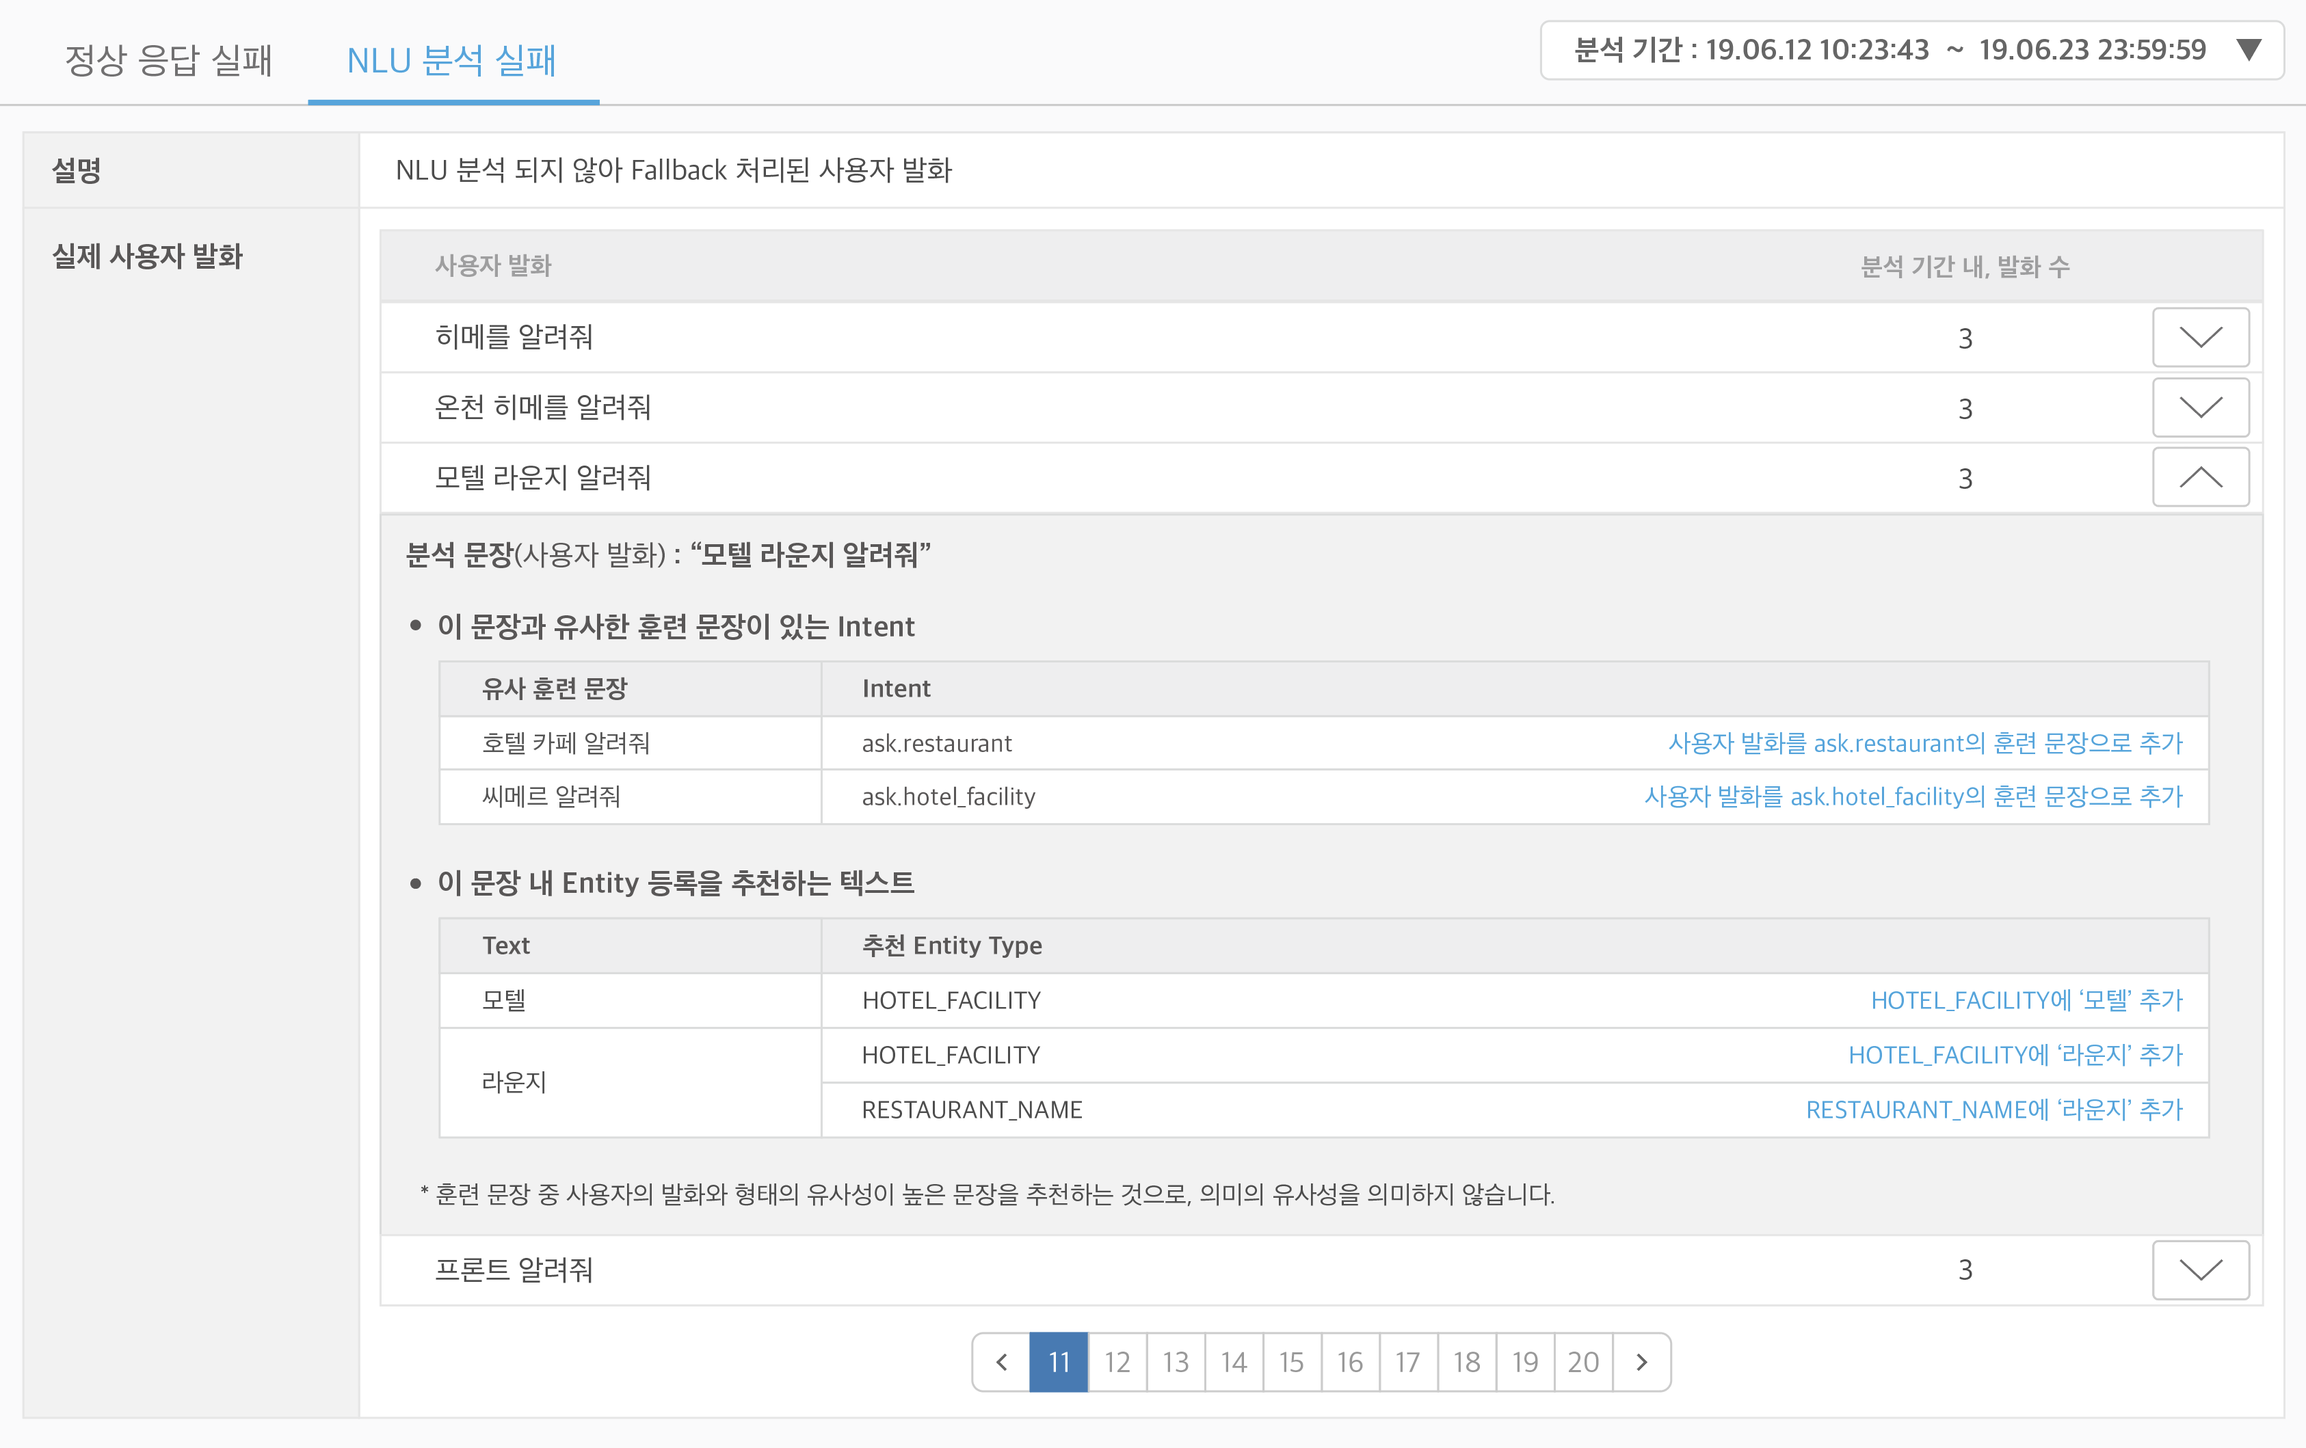
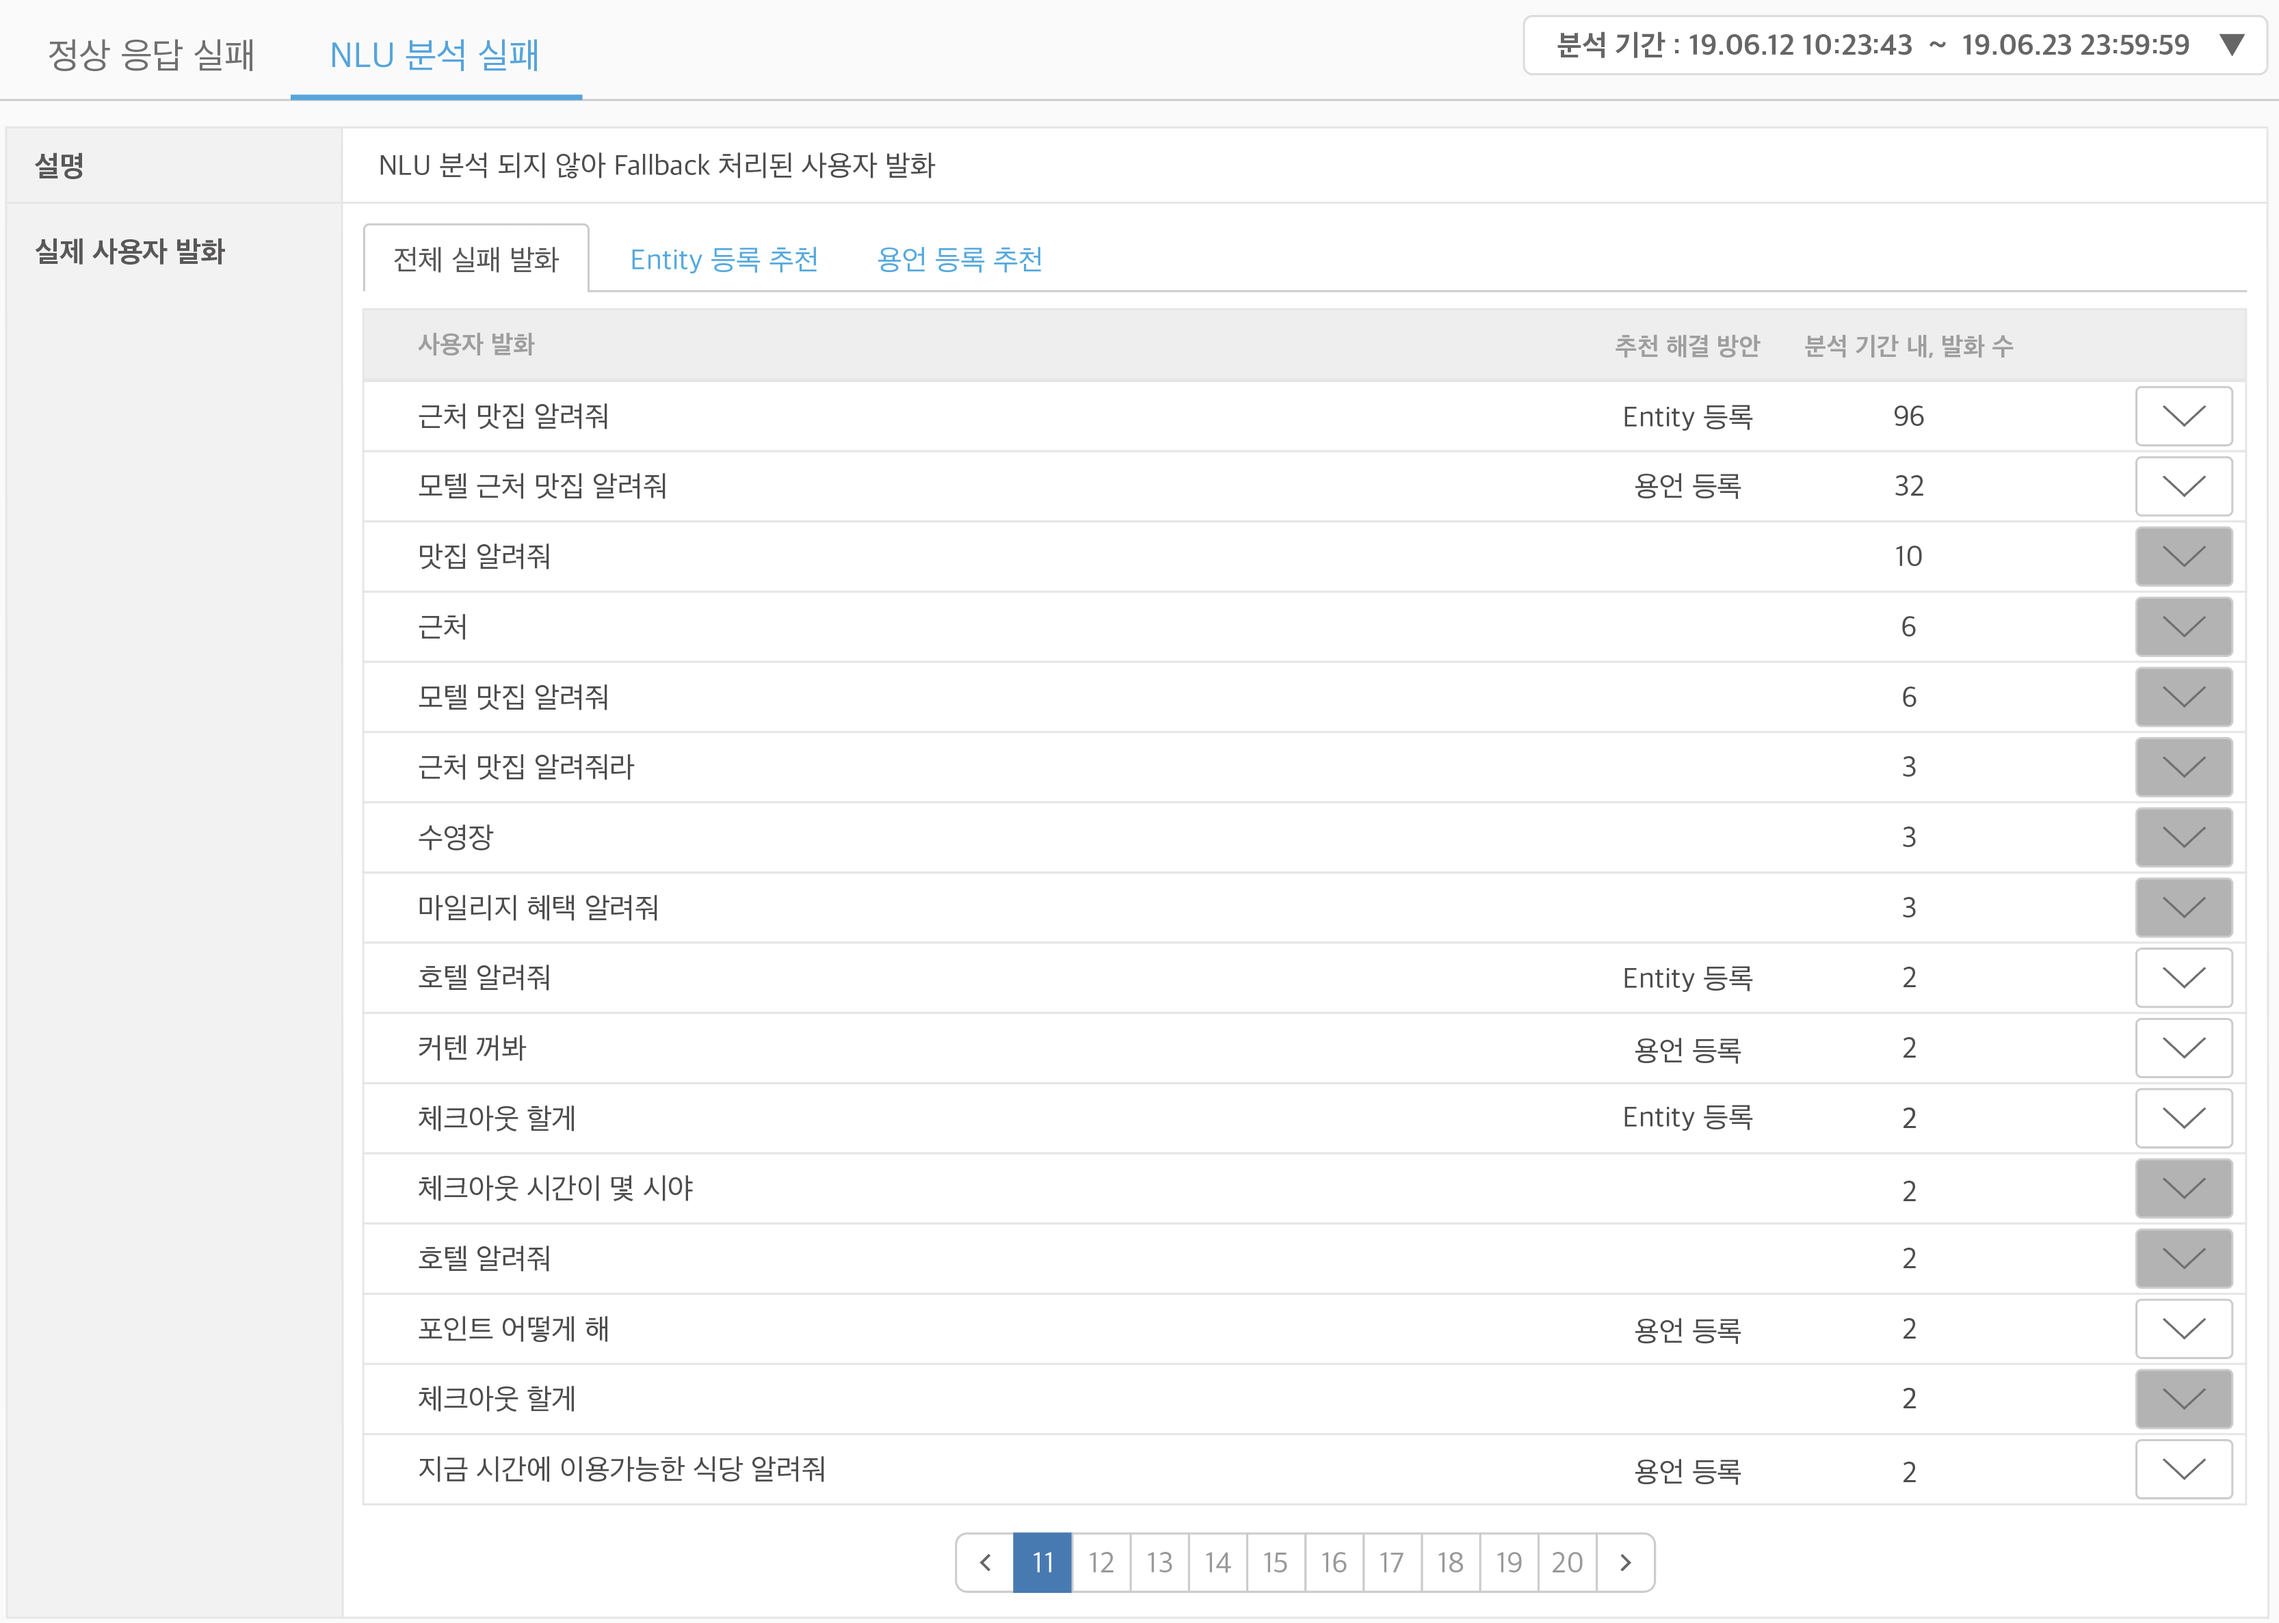
- 로그마이닝 용언 추천 설명
- 로그마이닝 용언 추천 설명 추가
  - 릴리즈 노트 업데이트

diff --git a/latest/README.md b/latest/README.md
@@ -1,103 +1,174 @@
-# Release note
+Release Notes
+==================
+## Version 1.7.0
+
+업데이트일 : 2019년 9월 26일
+
+
+####1. 새로운 기능
+* 실패 발화 분석 도구에 용언 분석 기능 추가 : [자세히 알아보기](/create-plays-with-play-builder/log-mining.md)
+
+
+####2. 향상/변경된 기능
+* Action명 수정
+* Action 목록에서 Backend Proxy/Directive 사용 여부 표시
+
+
+
+<br>
+<br>
+
+## Version 1.6.0
+
+업데이트일 : 2019년 8월 20일
+
+
+####1. 새로운 기능
+* Play 빌드 Export/Import 기능 추가
+
+
+
+####2. 향상/변경된 기능
+* 저장 속도 향상
+
+
+
+####3. 버그 수정
+* 좌측 LNB 화살표 방향 오류 수정
+* Built-in Action breadcrumbs 링크 오류 수정
+  
+<br>
+<br>
+
+## Version 1.5.0
+
+업데이트일 : 2019년 8월 8일
+
+
+####1. 새로운 기능
+* Play 내에서 공통으로 사용할 수 있는 Global Utterance Parameter 추가
+
+
+####2. 향상/변경된 기능
+* Welcome Action에서 Common Action을 output으로 선택할 수 있도록 변경
+* Parameter에서 Array 형식 처리할 수 있도록 변경
+* User Utterance Model Import시 Validation
+* Entity 허용 문자에 . (dot) 추가
+* Built-in Entity type 상세화면에서 동의어 노출
+* NLU function 타입을 'DATE'에서 'DATETIME'으로 변경
+
+
+
+####3. 버그 수정
+* 발화옵션 자동완성 '한글 숫자 읽기' 자동입력 오류 수정
+* Action 생성 페이지에서, Intent 없을 경우 멈추는 현상 수정 
+  
+<br>
+<br>
 
 ## Version 1.4.0
 
 업데이트일 : 2019년 7월 11일
 
-### 1. 새로운 기능
 
-* 실패 발화 분석 도구 추가 : [자세히 알아보기](https://github.com/nugudevelopers/document/tree/38a11c4f0cb05a1e16b93fc6ffb82b035852ac8c/create-plays-with-play-builder/log-mining.md)
+####1. 새로운 기능
+* 실패 발화 분석 도구 추가 : [자세히 알아보기](/create-plays-with-play-builder/log-mining.md)
 
-### 2. 향상/변경된 기능
 
+####2. 향상/변경된 기능
 * Translator, Normalizer의 Source/Target 최대 글자수를 50에서 200으로 변경
 
-### 3. 버그 수정
 
+
+####3. 버그 수정
 * Prompt 입력창에서 백스페이스 글자 삭제 버그 수정 
 * Translator 이름 중복 버그 수정 및 정렬 수정
 * 학습 문장 분석 도구 내 Intent 미노출 현상 수정
 * Play 구조에서 Common Action 하위 브랜치 노출
+  
+<br>
+<br>
 
 ## Version 1.3.0
 
 업데이트일 : 2019년 4월 23일
 
-### 1. 새로운 기능
 
-* Utterance Model 학습 문장 분석 도구 추가 : [자세히 알아보기](../create-plays-with-play-builder/define-user-utterance-model/corpus-inspection.md)
-* 합성음 목소리 '벨' 추가 : [자세히 알아보기](../create-plays-with-play-builder/customize-a-play.md#setting)
+####1. 새로운 기능
+* Utterance Model 학습 문장 분석 도구 추가 : [자세히 알아보기](/create-plays-with-play-builder/corpus-inspection.md)
+* 합성음 목소리 '벨' 추가 : [자세히 알아보기](/create-plays-with-play-builder/customize-a-play.md#setting)
 
-### 2. 향상/변경된 기능
 
+####2. 향상/변경된 기능
 * 자동 처리 조사 추가 '예요/이에요'
 * Common Action 내에서 Utterance Parameter 정의할 수 있도록 수정
 * 학습문장 Export 파일 이름 변경
 * Action의 Prompt 하나를 Silent Prompt로 지정하면, 모두 Silent Prompt로 변경되도록 수정
 * Root Common Action끼리 Parameter 공유되지 않도록 변경
 
-### 3. 버그 수정
 
+
+####3. 버그 수정
 * Intent 리스트 최종 수정 시간이 정확히 표시 안되는 현상 수정 
 * 자동완성 UI 수정
 * 일부 단어 Entity 검색 안되는 버그 수정
 * 여러 개의 Response Filter를 적용할 때 멈추는 현상 수정
-
+  
+<br>
+<br>
 ## Version 1.2.0
 
 업데이트일 : 2019년 3월 12일
 
-### 1. 새로운 기능
 
-* Action 중복 생성을 줄이기 위한 Common Action 추가 : [자세히 알아보기](../create-plays-with-play-builder/define-an-action/use-common-actions.md)
-* Play 내에서 공통으로 사용할 수 있는 Global Backend Parameter 추가 : [자세히 알아보기](../create-plays-with-play-builder/customize-a-play.md#setting-backend-proxy)
-* Response에서 효과음 추가 : [자세히 알아보기](../create-plays-with-play-builder/define-an-action/use-responses/use-prompts.md#skml-tag)
+####1. 새로운 기능
+* Action 중복 생성을 줄이기 위한 Common Action 추가 : [자세히 알아보기](/create-plays-with-play-builder/use-common-actions.md)
+* Play 내에서 공통으로 사용할 수 있는 Global Backend Parameter 추가 : [자세히 알아보기](/create-plays-with-play-builder/customize-a-play.md#setting-backend-proxy)
+* Response에서 효과음 추가 : [자세히 알아보기](/create-plays-with-play-builder/use-prompts.md#skml-tag)
 
-### 2. 향상/변경된 기능
 
-* Utterance Parameter에 Entity mapping 방식 변경 : [자세히 알아보기](../create-plays-with-play-builder/define-an-action/use-parameters/multi-entity-mapping.md)
+####2. 향상/변경된 기능
+* Utterance Parameter에 Entity mapping 방식 변경 : [자세히 알아보기](/create-plays-with-play-builder/multi-entity-mapping.md)
 * Entity value 및 동의어 입력 시 허용 특수기호 추가
-
-  ' \(Apostrophe\), & \(Ampersand\), - \(Hyphen\) 
-
+  ' (Apostrophe), & (Ampersand), - (Hyphen) 
 * 저장 버튼 동작 수정
 * Entity value 및 동의어 입력 시 띄어쓰기 허용
 * 여러 Prompt 등록 후 하나를 Silent prompt로 지정하면 모두 Silent prompt로 변경
 * 히스토리에 Snapshot ID 노출
 * Exception prompt 3개 이상 입력 허용
 
-### 3. 버그 수정
 
-* Entity Type의 BID\_QT에 숫자 보강
+####3. 버그 수정
+* Entity Type의 BID_QT에 숫자 보강
 * Utterance parameter에 mapping할 Entity 사라지는 현상 수정
+ 
 
+
+<br>
+<br>
 ## Version 1.1.0
 
 업데이트일 : 2018년 12월 13일
 
-### 1. 새로운 기능
 
-* 멀티턴 대화 지원 \(Response + Branch Action\) : [자세히 알아보기](../create-plays-with-play-builder/define-an-action/response-with-branch-actions.md) 
-* AudioPlayer Interface용 Display Interface 추가 : [자세히 알아보기](../create-plays-with-play-builder/use-backend-proxy/capability-interfaces/display-interface.md)
-* 다른 Intent 에서 Entity type 더 가져오기 기능 추가 : [자세히 알아보기](../create-plays-with-play-builder/define-an-action/response-with-branch-actions.md#multi-turn-branch)
-* Silent Prompt : [자세히 알아보기](../create-plays-with-play-builder/define-an-action/use-responses/use-prompts.md#silent-prompt)
+####1. 새로운 기능
+* 멀티턴 대화 지원 (Response + Branch Action) : [자세히 알아보기](/create-plays-with-play-builder/response-with-branch-actions.md) 
+* AudioPlayer Interface용 Display Interface 추가 : [자세히 알아보기](/create-plays-with-play-builder/display-interface.md)
+* 다른 Intent 에서 Entity type 더 가져오기 기능 추가 : [자세히 알아보기](/create-plays-with-play-builder/response-with-branch-actions.md#multi-turn-branch)
+* Silent Prompt : [자세히 알아보기](/create-plays-with-play-builder/use-prompts.md#silent-prompt)
 
-### 2. 향상/변경된 기능
 
+####2. 향상/변경된 기능
 * Entity value 및 동의어 입력 시 특수기호 허용 제외 
-
-  \_ \(Underbar\)
-
+ _ (Underbar)
 * Entity value 및 동의어 입력 시 띄어쓰기 허용
 
-### 3. 버그 수정
-
+####3. 버그 수정
 * Fallback 처리 되어야 하는 발화들이 특정 Custom Intent로 분석되는 현상 수정
-* 상세 페이지에서 Ctrl\(Cmd\) + A 키가 동작하지 않는 현상 수정
+* 상세 페이지에서 Ctrl(Cmd) + A 키가 동작하지 않는 현상 수정
+ 
 
-### 4. 다음 업데이트 추가 예정 기능
 
+####4. 다음 업데이트 추가 예정 기능
 * Entity value 및 동의어 입력 시 허용 특수기호 추가
-
-  ' \(Apostrophe\), & \(Ampersand\), - \(Hyphen\) 
-
+  ' (Apostrophe), & (Ampersand), - (Hyphen) 

diff --git a/create-plays-with-play-builder/log-mining.md b/create-plays-with-play-builder/log-mining.md
@@ -25,19 +25,36 @@
 
 ## NLU 분석 실패 {#no-nlu-result}
 
-이 도구는 NLU 분석을 할 수 없는 사용자 발화를 보여줍니다. NLU 분석 결과가 없는 것은 Play 개발자가 요청한 학습 데이터를 기반으로 생성된 User Utterance Model 만으로는 NLU 엔진이 해당 발화를 분석할 수 없는 경우를 의미합니다. 이를 해결하기 위해서는 (1) 해당 문장을 기존 Intent의 예상 발화로 추가하거나, (2) 새로운 Intent를 생성하고 해당 Intent를 처리하는 Action을 만들거나, (3) 발화 내의 특정 단어를 Entity로 추가하여 Model을 수정하는 것을 권장합니다. 
+Play 개발자가 요청한 학습 데이터를 기반으로 생성된 User Utterance Model 만으로는 NLU 엔진이 해당 발화를 분석할 수 없는 경우 해당 발화를 보여주며, 그 중 해결 방안을 제안할 수 있는 경우 이를 보여줍니다. 이 도구가 제시하는 해결 방안은 크게 두 가지 `Entity 등록`과 `용언 등록`이 있습니다.
 
-![](../images/create-plays-with-play-builder/log-mining-no-nlu-result.png)
+![](/images/create-plays-with-play-builder/log-mining-no-nlu-result.png)
 
-#### 이 문장과 유사한 훈련 문장이 있는 Intent
+#### 추천 해결 방안 1 : Entity 등록 {#log-mining-entity}
+
+NLU 분석 실패 발화 내의 특정 단어가 Entity일 가능성이 있어서 Entity로 등록할 필요가 있다고 분석되는 경우에 추천 방안이 제시됩니다. 이 추천 결과를 통해 (1) 해당 문장 자체를 기존 Intent의 예상 발화로 추가하거나, (2) 발화 내의 특정 단어를 Entity로 추가하여 Model을 수정하는 것을 권장합니다. 
+
+![](/images/create-plays-with-play-builder/log-mining-entity.png)
+
+##### (1) 이 문장과 유사한 훈련 문장이 있는 Intent
 
 `NLU 분석 실패` 도구는 사용자 발화와 유사하다고 분석되는 훈련 문장(예상 발화)이 있는 경우 그 문장과 Intent를 모두 보여줍니다. 이 도구는 문장의 패턴을 통해 유사한 훈련 문장을 찾기 때문에 실제 의미는 다른 문장이 분석 결과로 제안될 수 있으며, 여러 문장이 동시에 노출될 수도 있습니다. 분석 결과 중 사용자 발화의 의도라고 판단되는 Intent가 있다면, 우측의 버튼을 통해 분석 대상을 Intent의 학습 문장으로 추가할 수 있습니다. 사용자 발화를 여러 Intent의 훈련 문장으로 추가하는 경우 원하는 분석 결과를 얻을 수 없으므로, 하나의 Intent에만 추가하는 것을 권장합니다.
 
-#### 이 문장 내 Entity 등록을 추천하는 텍스트
+##### (2) 이 문장 내 Entity 등록을 추천하는 텍스트
 
 사용자 발화에 포함된 텍스트 중 Entity 등록을 추천하는 단어가 있는 경우 그 텍스트들을 노출하며, 각 텍스트들과 유사한 텍스트가 포함된 Entity Type 들을 추천합니다. 하나의 텍스트에는 여러 Entity Type이 추천될 수 있습니다. 이 경우도 하나의 텍스트는 하나의 Entity Type에만 추가하는 것을 권장합니다. 
 
 <br>
+
+#### 추천 해결 방안 2 : 용언 등록 {#log-mining-verb}
+
+NLU 분석의 원인이 용언인 경우, 그 문장과 유사한 의미로 분석되는 학습 문장 및 Intent을 추천합니다. 이 용언은 기존 데이터에 포함되지 않은 새로운 용언일 가능성이 높습니다. 이 용언과 기존 학습 문장을 조합하여 새로운 학습 문장 및 Intent를 추천하게 되며, 이때 학습 문장에 Entity 태깅이 필요하다면, Entity 태깅된 학습 문장이 추천됩니다.
+
+![](/images/create-plays-with-play-builder/log-mining-verb.png)
+
+추천된 문장의 의도가 Intent와 유사하다고 판단된다면, 우측 버튼을 통해 훈련 문장으로 추가하는 것을 권장합니다.
+ 
+ <br>
+
 
 {% hint style='info' %}
 `실패 발화 분석`도구의 분석 기간은 Play 배포에 의해 결정됩니다. 배포 시점 이후의 가장 빠른 로그가 분석 시점이 되며, 해당 배포 Play 버전의 마지막 로그가 분석 종점이 됩니다. 분석은 하루에 한 번, 오전 4 ~ 6시 사이에 진행 됩니다.
